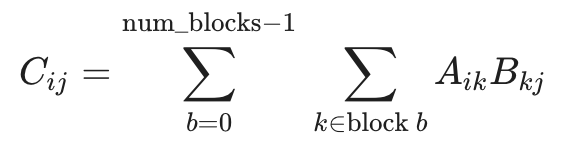
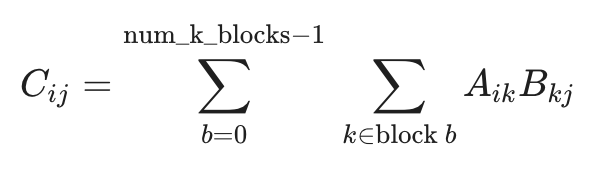
Happy with new explanation of the pseudocode

diff --git a/docs/source/tt-metalium/tt_metal/labs/matmul/lab2/lab2.rst b/docs/source/tt-metalium/tt_metal/labs/matmul/lab2/lab2.rst
@@ -469,45 +469,18 @@ there are ``num_k_blocks`` = ``3`` K-blocks. Therefore:
 Each "slab" is indicated by a different shade of purple in Figure 4.
 
 To see what computation needs to be performed such that each slab is read
-only once, consider the computation for a single output tile ``C[i][j]``:
+only once, consider the computation for a single output tile ``C[i][j]`` within ``C_block``:
 
 .. figure:: images/sum_standard.png
    :alt: ``C[i][j] = ∑ₖ A[i][k] * B[k][j]``
    :width: 250
    :align: center
 
-where:
+We can split the sum over ``k`` into consecutive chunks corresponding to K-blocks.
+Each K-block ``b`` spans some range of ``k`` values: ``(b * K_block_tiles) .. ((b + 1) * K_block_tiles - 1)``.
+Given this, we can decompose the computation of ``C[i][j]`` as follows:
 
-* ``i`` is a tile row index in ``0 .. M_block_tiles - 1``
-* ``j`` is a tile column index in ``0 .. N_block_tiles - 1``
-* ``k`` is a tile index along the K direction in ``0 .. Kt - 1``
-* ``A[i][k] × B[k][j]`` indicates multiplying A's tile at ``(i,k)`` with
-  B's tile at ``(k,j)`` and adding to the tile ``C[i][j]``.
-
-This requires traversing every tile in row ``i`` of ``A_block`` and every tile in column ``j``
-of ``B_block``. However, we know that we don't have the entire row of ``A`` and column of ``B``
-in on-chip SRAM at the same time. Therefore, we need to split the computation such that all
-computation involving a single slab is performed in a single pass.
-We can do this by observing that, for a given K-block ``b``, the computation requires only slabs
-from the ``A_block`` and ``B_block`` that are at matching block indices ``b`` (i.e. the ones with
-the same shade of purple in Figure 4).
-Therefore, we can decompose the computation of ``C[i][j]`` so that for every ``b`` in range
-``(0, 1, ..., num_k_blocks-1)`` we bring into on-chip SRAM slabs ``A_slab(b)`` and ``B_slab(b)``
-and calculate contributions from ``A_slab(b)`` and ``B_slab(b)`` to all output tiles that are part
-of ``C_block`` before proceeding to the next pair of slabs.
-
-
-
-We can split the range of ``k`` into K-blocks of size ``K_block_tiles``.
-For each K-block ``b`` we define the **set of k-indices** that are part of this K-block as:
-
-.. figure:: images/sum_k_indices_set.png
-   :alt: K-indices in K-block
-   :width: 350
-   :align: center
-
-Breaking the original equation across the K-blocks, we get:
-
+Decomposing the original equation across K-blocks, we get:
 
 .. figure:: images/sum_composite.png
    :alt: ``C[i][j] = ∑_{b=0}^{num_k_blocks-1} ∑_{k in block b} A[i][k] * B[k][j]``
@@ -521,24 +494,36 @@ Define the partial result for block ``b`` as:
    :width: 200
    :align: center
 
-Then:
+Key observation is that the partial result equation needs only tiles from the current K-block ``b``
+to compute the partial result for ``C[i][j](b)``, which is exactly what ``A_slab(b)`` and ``B_slab(b)``
+contain.
+
+To get the final result, we need to add partial results for all K-blocks:
 
 .. figure:: images/sum_across_blocks.png
    :alt: ``C[i][j] = ∑_{b=0}^{num_k_blocks-1} C[i][j](b)``
    :width: 200
    :align: center
 
+
+Observe that the above equations concerns only a single tile of the output ``C[i][j]``.
+This cimputation needs to be done for all tiles in ``C_block``, i.e. for all ``i`` and ``j``
+in ``0 .. M_block_tiles - 1`` and ``0 .. N_block_tiles - 1``.
+If we did this naively, we would iterate over ``i`` and ``j`` in the outer loops and then
+compute the partial result for each tile, which would not be conducive to data reuse.
+Instead, we iterate over K-blocks in the outer loop, bring ``A_slab(b)`` and ``B_slab(b)``
+into on-chip SRAM, and then compute contribution of this K-block to all ``C[i][j]`` tiles
+in ``C_block``.
+Given that matrix multiplication is a linear transformation, such loop interchange does not
+change the result (ignoring floating-point considerations), as discussed in Lab 1.
+
 Note that if understanding above equations with respect to tiles is confusing,
 try thinking of them as individual elements rather than tiles.
 The underlying math is the same, but it becomes easier to verify your understanding.
 
 
-
-
-We can split the sum over ``k`` into consecutive chunks corresponding to K-blocks.
-Each K-block ``b`` spans some range of ``k`` values: ``(b * K_block_tiles) .. ((b + 1) * K_block_tiles - 1)``.
-Given this, we can decompose the computation of ``C[i][j]`` as follows:
-
+Blocked Matrix Multiplication with Data Reuse Pseudocode
+========================================================
 
 The overall approach can be summarized by the following pseudo-code for a compute core:
 
